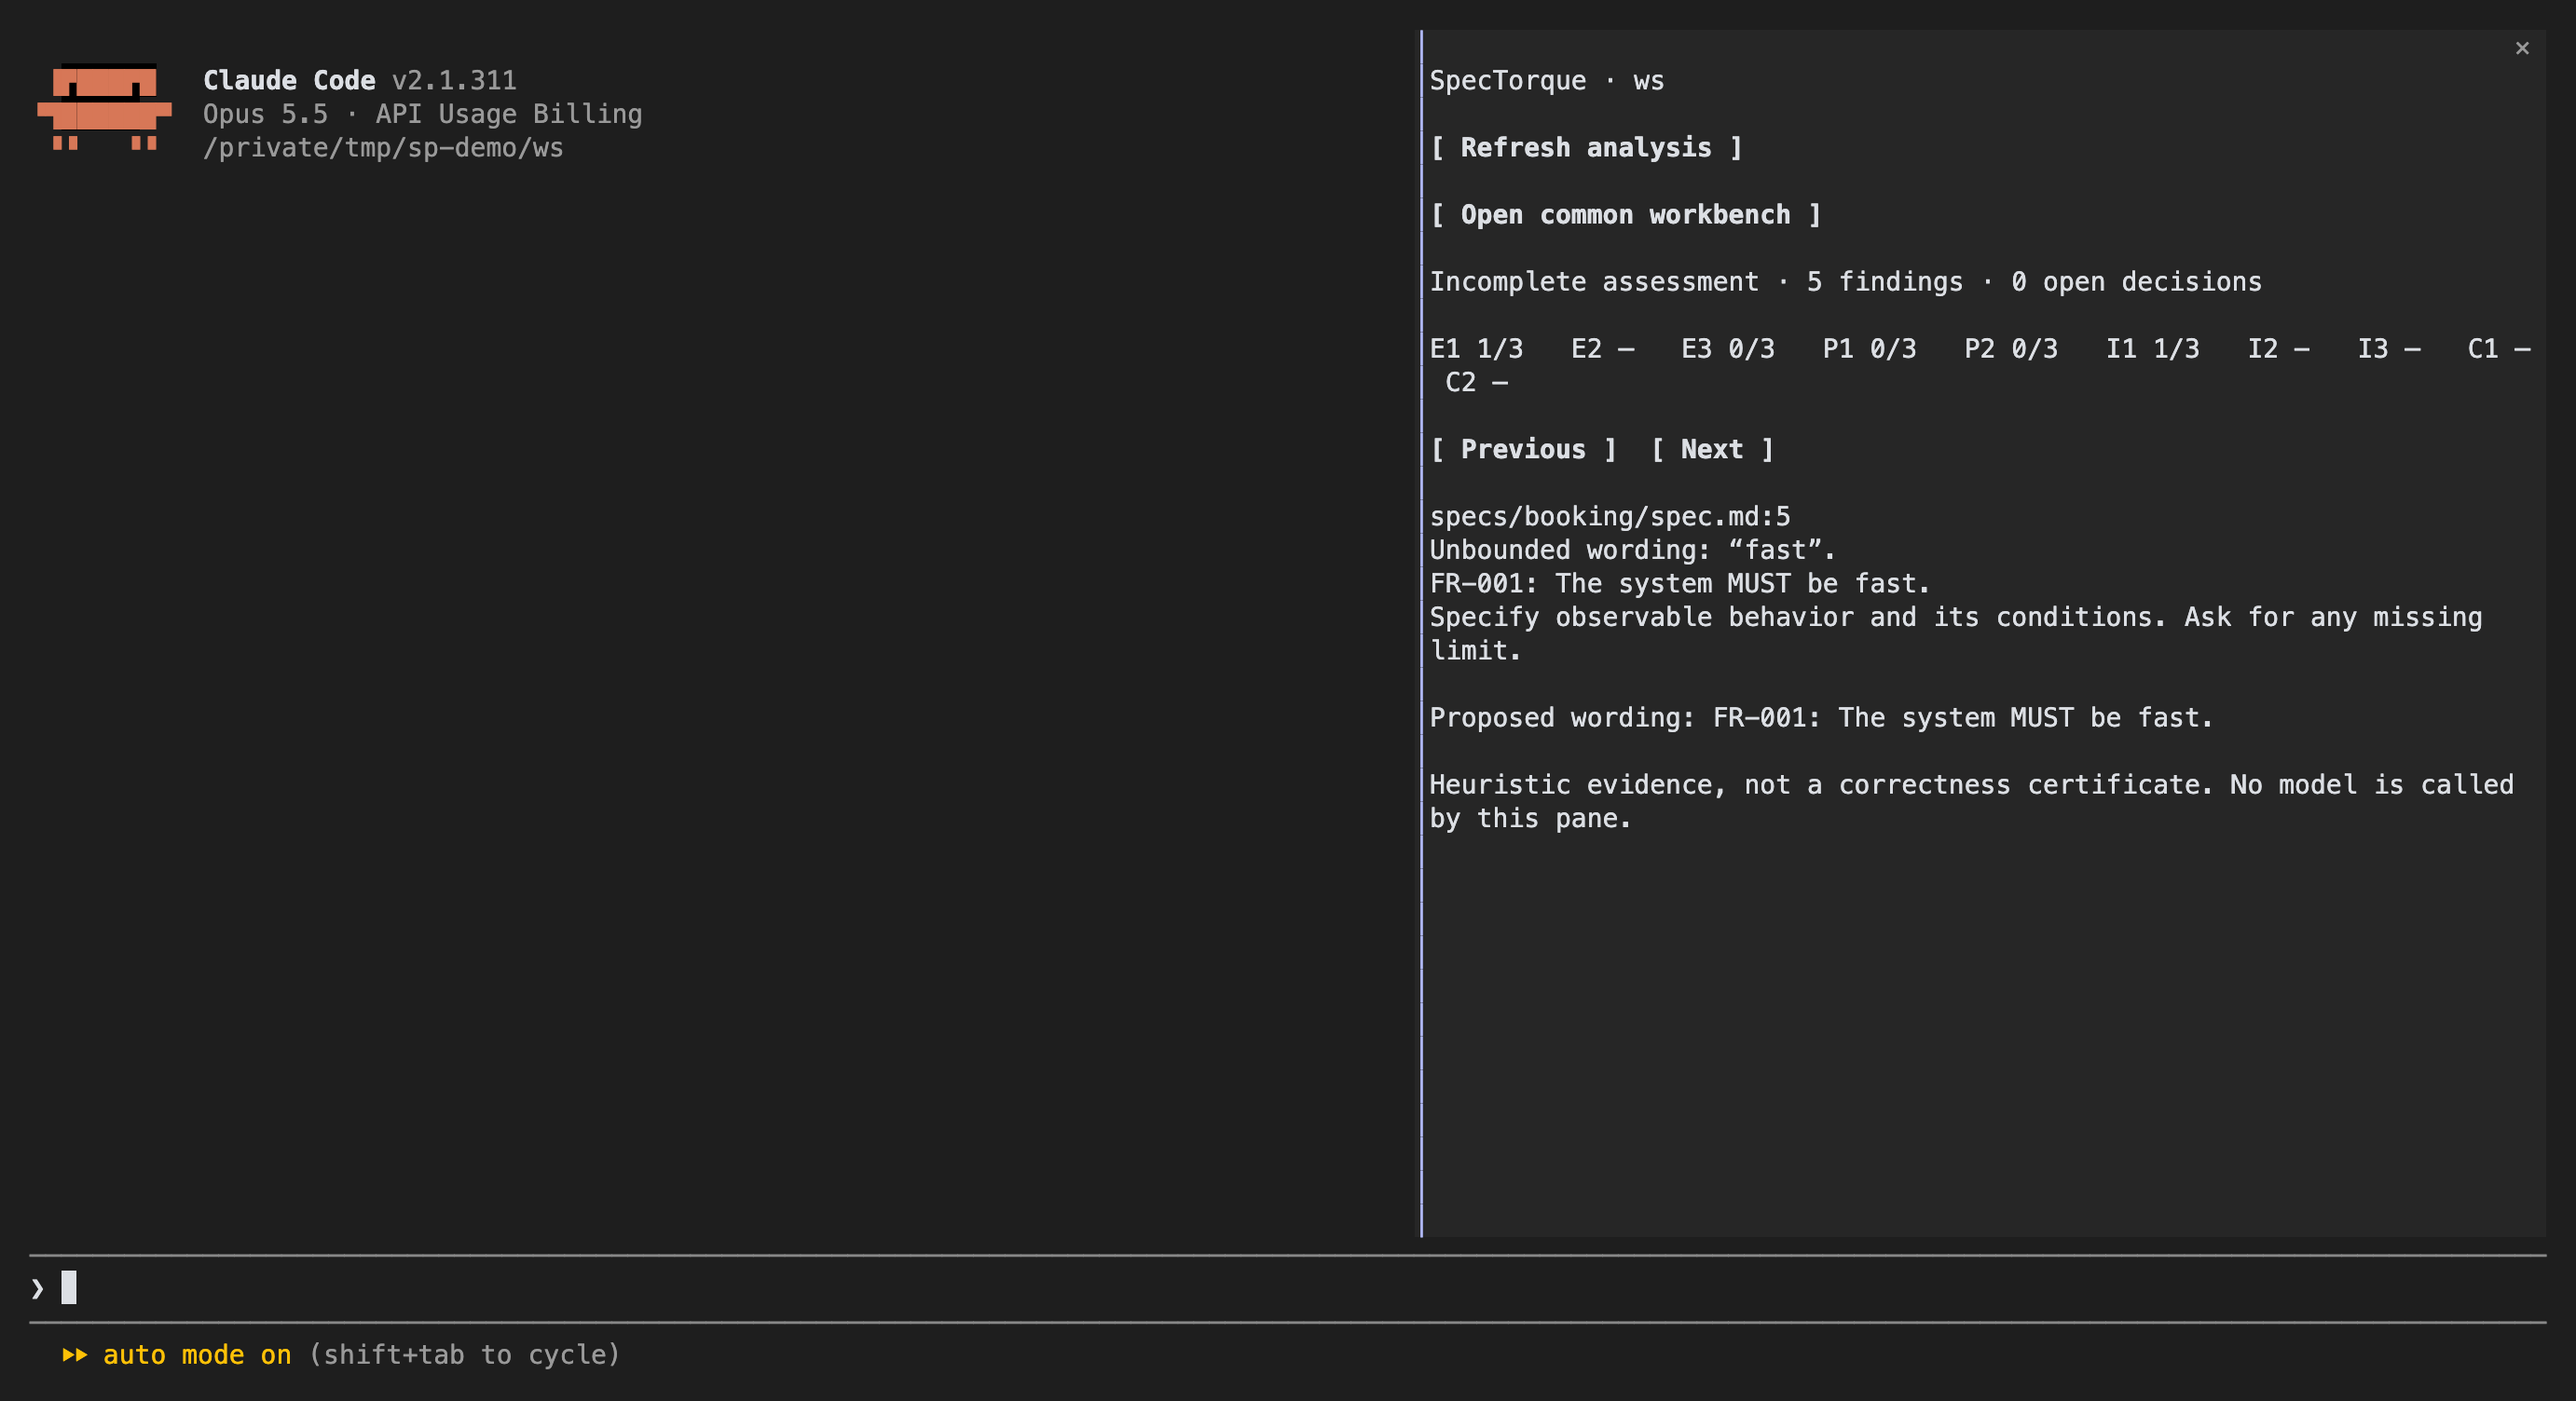
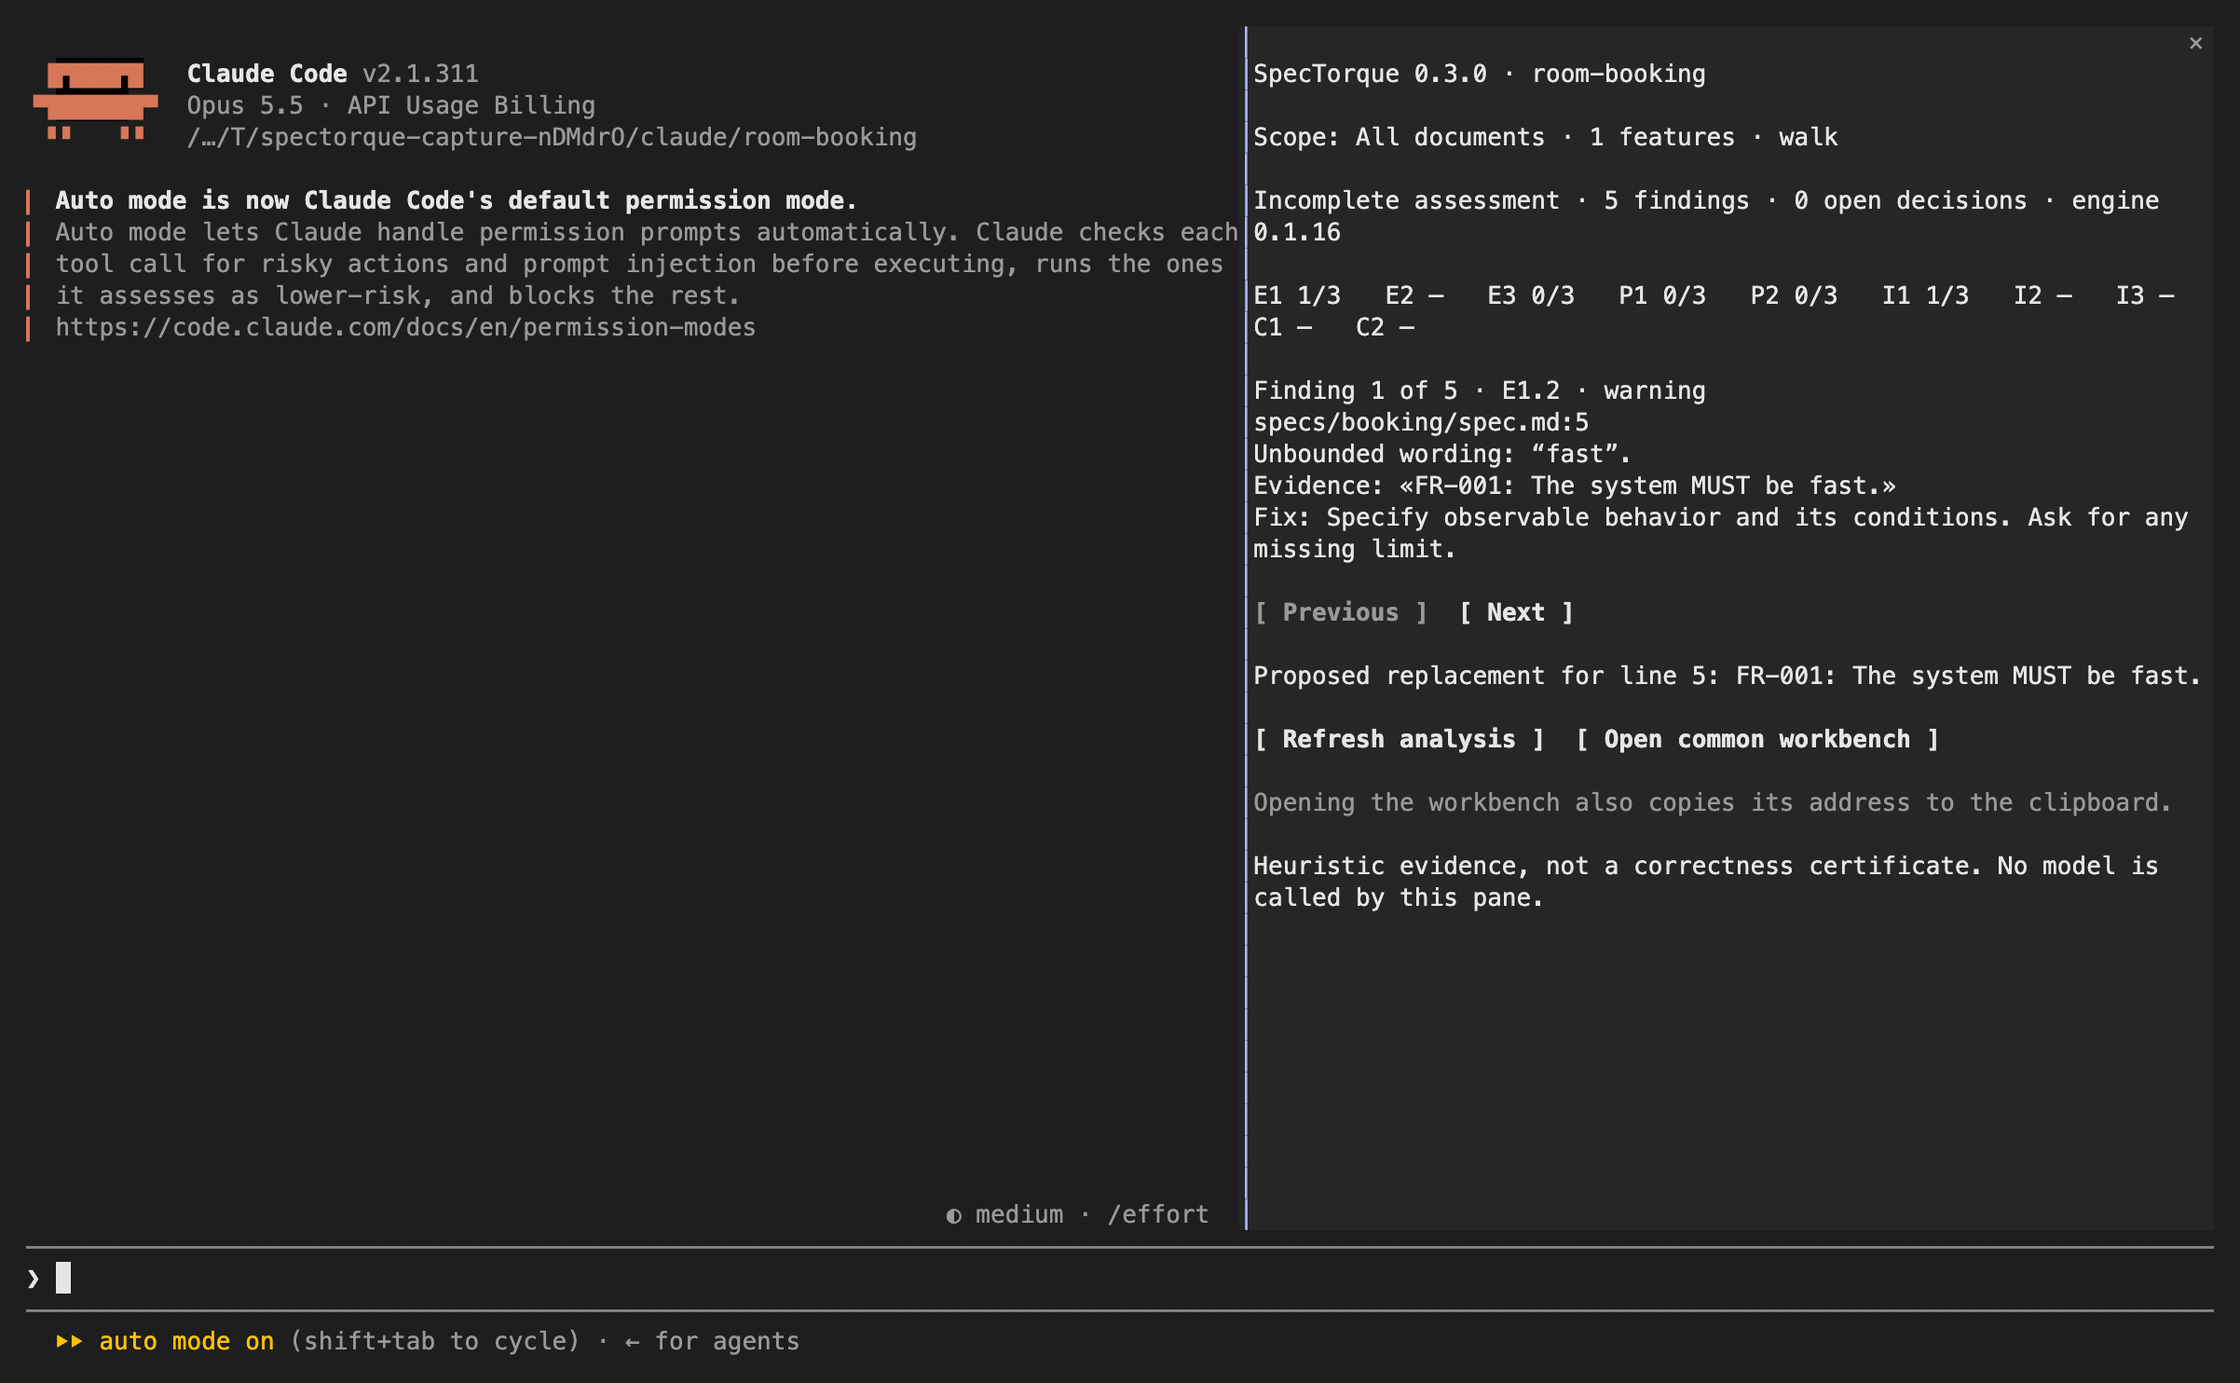
Regenerate documentation screenshots from real hosts
npm run docs:capture captures the workbench, the Codex viewer and the
Claude Code, OpenCode, Pi and VS Code panels from the built 0.3.0 packages,
with isolated profiles and model requests refused. Terminal output is
replayed into xterm.js. The ThinkRail capture was taken on a disposable
trusted project. docs/assets/README.md records the source of every image;
Claude Desktop and Codex Desktop keep their labelled 0.2.0 captures.

diff --git a/docs/assets/README.md b/docs/assets/README.md
@@ -1,0 +1,27 @@
+# Documentation images
+
+Every image in the README and guides, with its source. Regenerate the scripted ones after a UI change:
+
+```sh
+npm run package:integrations
+npm run pack:hosts
+npm run docs:capture -- --only workbench,codex,claude,opencode,pi,vscode
+```
+
+The terminal and VS Code captures need the tools folder `.spec-torque/capture-tools` (`npm install --prefix .spec-torque/capture-tools node-pty @xterm/xterm @earendil-works/pi-coding-agent`, then make `node-pty`'s `spawn-helper` executable on macOS), `claude` and `opencode` on `PATH`, and `VSCODE_EXECUTABLE`. Hosts run with isolated profiles; model requests go to a local endpoint that refuses them, so no capture calls a model. Terminal output is replayed into xterm.js for the image.
+
+| Image | Source | Fixture | Version shown |
+|---|---|---|---|
+| `workbench/analyze.jpg`, `build.jpg`, `history.jpg`, `connect.jpg` | `docs:capture` (`workbench`), Chromium 1360×930 at 1.5× | `fixtures/en-complete` | 0.3.0, engine 0.1.16 |
+| `panels/codex.png` | `docs:capture` (`codex`): the Codex viewer in a local MCP Apps host | `fixtures/en-draft` | 0.3.0 |
+| `panels/claude.png` | `docs:capture` (`claude`): Claude Code CLI with `--plugin-dir integrations/claude` | `fixtures/en-draft` | 0.3.0 in Claude Code 2.1.311 |
+| `panels/opencode.png` | `docs:capture` (`opencode`): the packed `opencode-spectorque` tarball in an active session | `fixtures/en-draft` | 0.3.0 in OpenCode 2.1.4 |
+| `panels/pi.png` | `docs:capture` (`pi`): the packed `pi-spectorque` tarball, Pi offline | `fixtures/en-draft` | 0.3.0 in Pi 1.6.1 |
+| `panels/vscode.png` | `docs:capture` (`vscode`): end of the `test:vscode` extension-host walkthrough | `fixtures/en-draft` | 0.3.0 in VS Code 1.147.0 |
+| `panels/claude-desktop.png` | Manual capture, Claude Desktop Code tab | `fixtures/en-draft` | 0.2.0 qualification |
+| `panels/codex-desktop.jpg` | Manual capture, Codex Desktop conversation | Disposable public fixture | 0.2.0 qualification |
+| `panels/thinkrail.jpg` | Desktop capture driven by Claude on 2026-11-26: the packed `pi-spectorque` tarball installed with `--local` in a disposable trusted project, `/spectorque` run as an extension command, project closed and deleted afterwards | `fixtures/en-draft` | 0.3.0 in ThinkRail |
+| `workbench/workflow.png` | Rendered from `workbench/workflow.archify.json` | — | Unversioned diagram |
+| `brand/icon.svg`, `icon-128.png`, `icon-256.png` | `node scripts/render-icon.mjs` renders the SVG; the PNG ships in every host package | — | — |
+
+Desktop captures are not scripted: they need the plugin installed in a real desktop profile. Claude Desktop must be captured by hand (an agent running inside Claude cannot drive its own app), and opening the Codex Desktop viewer submits a model turn that [pilot operations](../pilot-operations.md#stable-candidate-gate) reserves for an authorized operator run. Replace them only with a capture of the version they claim.
